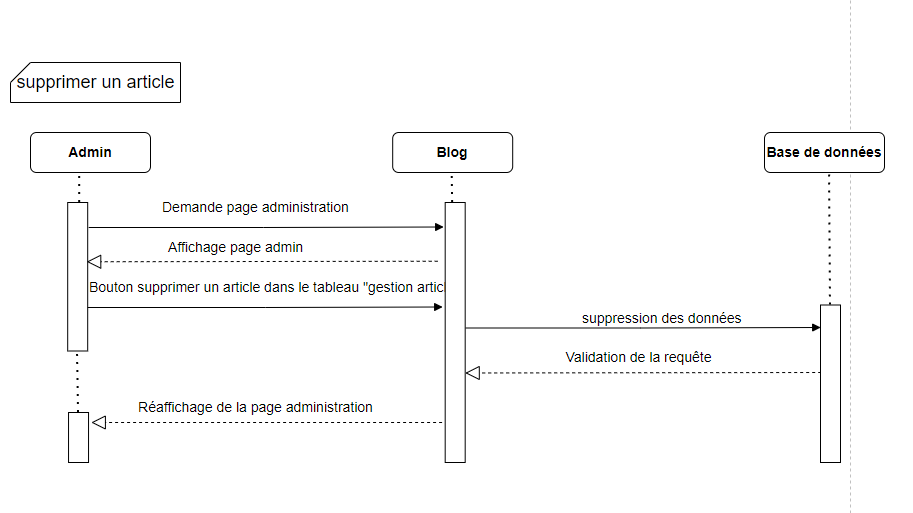
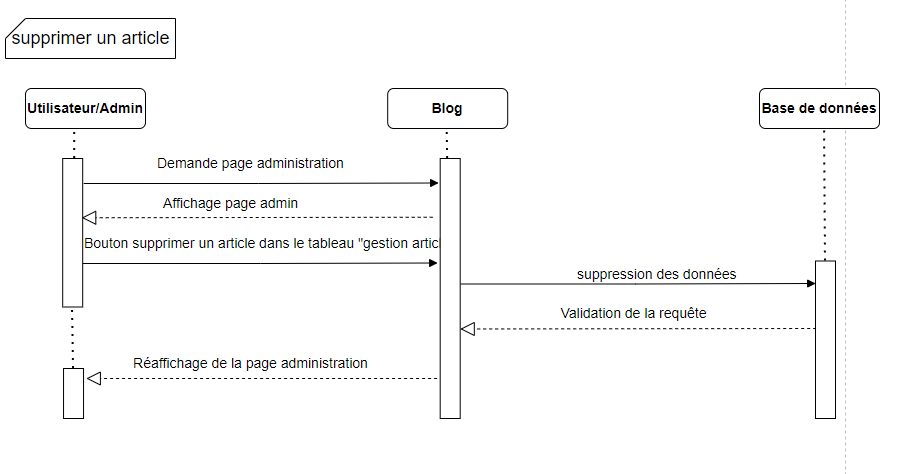
update user-admin + diagrams

diff --git a/src/Models/Post.php b/src/Models/Post.php
@@ -20,8 +20,23 @@ class Post extends Database {
     }
 
     // Selectionne les articles sur la page 'liste article'
-    public static function getPosts() {
-        $results = self::$db->query("select posts.*, users.username, users.email FROM posts LEFT JOIN users ON posts.id_user = users.id WHERE posts.id_parent is null ORDER BY posts.created DESC LIMIT 10");
+    public static function getPosts($authorId = null) {
+        if ($authorId) {
+            $results = self::$db->query(
+                "SELECT posts.*, users.username, users.email " . 
+                "FROM posts " .
+                "LEFT JOIN users ON posts.id_user = users.id " . 
+                "WHERE posts.id_parent is null " . 
+                "AND id_user = " . $authorId . " " . 
+                "ORDER BY posts.created DESC LIMIT 10");
+        } else {
+            $results = self::$db->query(
+                "SELECT posts.*, users.username, users.email " . 
+                "FROM posts " .
+                "LEFT JOIN  users ON posts.id_user = users.id " . 
+                "WHERE posts.id_parent is null " . 
+                "ORDER BY posts.created DESC LIMIT 10");
+        }
         return $results->fetchAll();
     }
 
@@ -107,7 +122,6 @@ class Post extends Database {
 
     
 }
-
 
 
 

diff --git a/src/Controllers/AdminController.php b/src/Controllers/AdminController.php
@@ -26,10 +26,17 @@ class AdminController extends Controller {
             } 
         }       
         // Affiche les données dans un tableau associatif [articles, session, utilisateur, commentaires]
-        $posts = \App\Models\Post::getPosts();
-        $comments = \App\Models\Post::commentStatusDefault();
+        $isAdmin = \App\Models\User::isAdmin($session->get("userId"));
+        $comments = [];                
+        if ($isAdmin) {
+            $posts = \App\Models\Post::getPosts();
+            $comments = \App\Models\Post::commentStatusDefault();
+        } else {
+            $posts = \App\Models\Post::getPosts($session->get("userId"));
+        }
         $username = \App\Models\User::getUser();
         $params = [
+            'isAdmin'   => $isAdmin,
             'articles'  => $posts,
             'userId'    => $session->get("userId"),
             'comments'  => $comments,
@@ -94,6 +101,5 @@ class AdminController extends Controller {
             throw new \Exception("Vous devez être connecté");
         }
     }
-
          
 }

diff --git a/src/Models/User.php b/src/Models/User.php
@@ -49,6 +49,18 @@ class User extends Database {
         return $results->fetchAll();
     }
 
+    public static function getUserById($userId) {
+        $results = self::$db->query("SELECT * FROM users where id=" . $userId);
+        $users = $results->fetchAll();
+        if ($users && count($users)) return $users[0];
+        return null;
+    }
+
+    public static function isAdmin($userId) {        
+        $user = self::getUserById($userId);
+        return $user['role'] == "admin";
+    }
+
     
     // Méthode pour modifier un utilisateur
     public static function updateUser($id, $username = NULL){
@@ -61,4 +73,3 @@ class User extends Database {
     }
 
 }
-
